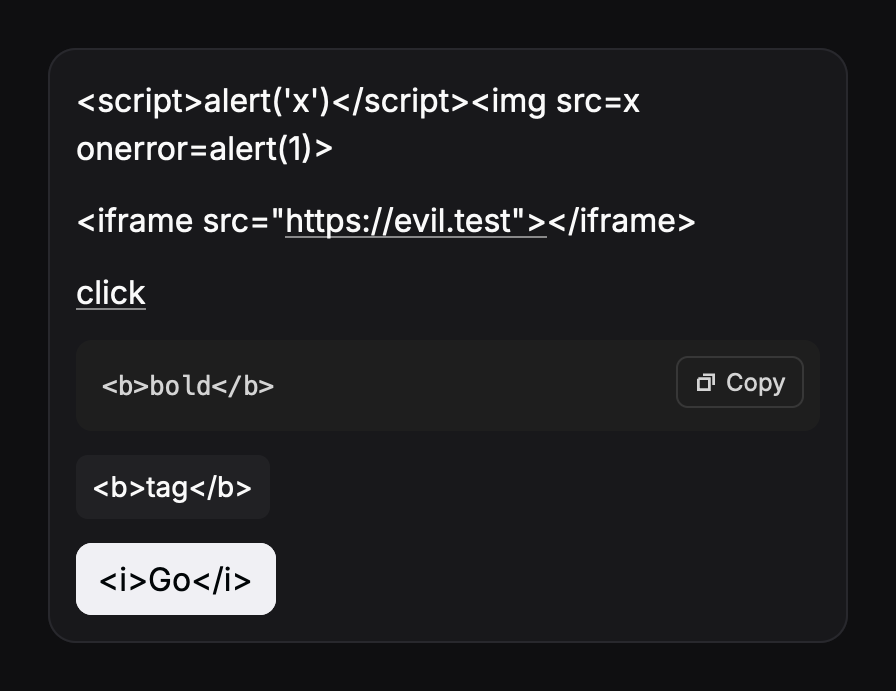
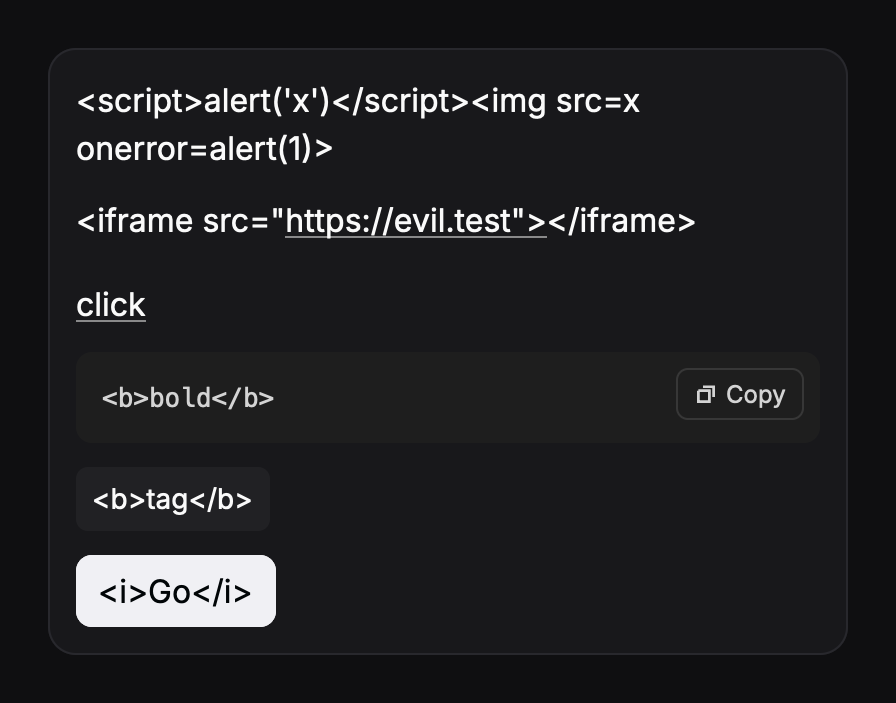
fix(chatwidgets): match the web's Markdown and colour the date picker (#113)
Markdown takes OpenUI's web renderer's values (markDownRenderer.css over
Tailwind's reset, measured in Chromium): 18px between paragraphs, every
heading semibold at 16px and 1.25 tall with nothing above it and 8px
below, list markers outside a 20px padding a space before their text
with items 8px apart, inline code in the body's own font on sunk with
the web's box, and tables with 14px corners and no header fill.

The date picker (one date or a range) takes the card's colours instead
of gpui-core's global Theme: its field as the text fields', its month on
the card's popover, the picked day on the accent, the range at the
web's 4% highlight. The slider and the text fields take the card's
focus ring and tooltips its body font. A new colours test draws a light
card's date picker under a dark gpui-core Theme.

content, form and hostile in docs/ are re-rendered.

diff --git a/gpui-chatwidgets/src/draw/content.rs b/gpui-chatwidgets/src/draw/content.rs
@@ -189,15 +189,15 @@ impl Draw<'_, '_> {
             .into_any_element()
     }
 
-    /// Markdown as text, selectable, through gpui-core's text view, laid out as the web lays
-    /// it out. It loads nothing: HTML reads as the text it is, an image as its alt text, and a
-    /// link goes to the host as an event. The text takes the card's colour from around it, and
-    /// everything else (links, markers, lines, code, the selection) the card's theme.
+    /// Markdown as text, selectable, through gpui-core's text view, laid out as OpenUI's web
+    /// renderer lays it out (its `markDownRenderer.css` over Tailwind's reset, measured in
+    /// Chromium). It loads nothing: HTML reads as the text it is, an image as its alt text,
+    /// and a link goes to the host as an event. The text takes the card's colour from around
+    /// it, and everything else (links, markers, lines, code, the selection) the card's theme.
     pub fn markdown(&mut self, md: &str, size: f32, weight: f32, path: &str) -> Div {
         let t = self.t;
         let rem = self.window.rem_size();
         let css = |v: f32| t.px(v).to_pixels(rem);
-        let heading = t.text.md;
         let mut code = StyleRefinement::default()
             .bg(t.colors.sunk)
             .border_1()
@@ -211,30 +211,38 @@ impl Draw<'_, '_> {
             line_height: Some(self.px(t.text.code * 1.6).into()),
             ..Default::default()
         };
-        // A heading's line is the body's leading at its size, where the web's is 1.35: the
-        // gaps around it give back the difference, so the text sits where the web's does.
-        let leading = heading * (t.text.body_leading - 1.35) / 2.;
+        // The web's margins are pixels, whatever the text's size (TextContent's small and
+        // large change only the body's font).
         let style = TextViewStyle {
-            paragraph_gap: self.px(size * 0.75),
-            heading_base_font_size: Some(css(heading)),
+            // 18px between paragraphs (`p:has(+p)`).
+            paragraph_gap: self.px(18.),
+            // Every level is the web's heading-xs: semibold at the body's medium size, 1.25 tall.
+            heading_base_font_size: Some(css(t.text.md)),
             heading_font_size: Some(Arc::new(|_, base| base)),
+            heading_line_height: Some(1.25),
+            // Nothing above a heading (Tailwind's reset, and OpenUI sets no top margin), and 8px
+            // to the paragraph under it (`h1:has(+p)`).
+            heading_margin_top: Some(px(0.)),
+            heading_margin_bottom: Some(css(8.)),
             code_block: code,
-            // Bullets and numbers in a 1.4em column, items 0.25em apart.
-            list_indent: Some(css(size * 1.4)),
-            list_item_gap: Some(css(size * 0.25)),
-            // A heading starts a section (1.4 of its size above it) and leads into what
-            // follows it (0.35 below).
-            heading_margin_top: Some(css(heading * 1.4 - leading)),
-            heading_margin_bottom: Some(css(heading * 0.35 - leading)),
-            // `code`: the card's mono type at 0.875em, in a rounded box 4px either side.
+            // Bullets and numbers outside a 20px padding, items 8px apart, and each marker a
+            // space (the marker's "• " in Inter, 0.27em) before its text.
+            list_indent: Some(css(20.)),
+            list_item_gap: Some(css(8.)),
+            list_marker_gap: Some(css(size * 0.27)),
+            // A table's container has the web's radius-2xl corners and no header fill.
+            table_radius: Some(css(t.radii.xl)),
+            // `code`: the body's own font at its size (`font: var(--openui-text-body-default)`),
+            // on sunk in a 4px-cornered box, 4px either side and 2px above and below the font's
+            // ascent and descent, with a 1px border the fill here takes in.
             inline_code: InlineCodeStyle {
-                family: Some(t.fonts.mono.clone()),
-                size: Some(0.875),
-                padding: Some(css(4.)),
+                family: Some(t.fonts.body.clone()),
+                size: Some(1.),
+                padding: Some(css(5.)),
+                padding_y: Some(css(3.)),
                 radius: Some(css(4.)),
                 background: Some(t.colors.sunk),
                 color: None,
-                ..Default::default()
             },
             colors: TextViewColors {
                 link: Some(t.colors.text),
@@ -242,9 +250,9 @@ impl Draw<'_, '_> {
                 rule: Some(t.colors.line),
                 quote_bar: Some(t.colors.line),
                 table_line: Some(t.colors.line),
+                table_header: None,
                 selection: Some(t.colors.accent.opacity(0.3)),
                 muted: Some(t.colors.text_muted),
-                ..Default::default()
             },
             ..Default::default()
         };

diff --git a/gpui-chatwidgets/tests/colors.rs b/gpui-chatwidgets/tests/colors.rs
@@ -1,4 +1,4 @@
-//! A light card in a dark app: gpui-core's text field and slider, which the card embeds, take
+//! A light card in a dark app: gpui-core's text field, slider and date picker, which the card embeds, take
 //! the card's colours, not the app's global gpui-core `Theme`. Read from the scene the window
 //! drew, with Core Text laying the text out (so the placeholder has glyphs to read).
 
@@ -181,4 +181,93 @@ fn a_light_card_s_slider_takes_the_card_s_colours_in_a_dark_app() {
         "no track in the dark theme's input colour"
     );
     assert!(!bar(global.primary), "no fill in the dark theme's primary");
+}
+
+const DATES: &str = r#"root = Form("f", Buttons([]), [FormControl("Day", DatePicker("day", "single", null, $d)), FormControl("Stay", DatePicker("stay", "range", null, $r))])
+$d = "2026-03-04"
+$r = {from: "2026-01-10", to: "2026-01-14"}"#;
+
+#[test]
+fn a_light_card_s_date_picker_takes_the_card_s_colours_in_a_dark_app() {
+    let mut cx = app_with_text();
+    cx.update(|cx| gpui_core::Theme::set(gpui_core::Theme::dark(), cx));
+    let host = light_host();
+    let (_, vcx) = open(&mut cx, DATES, &host, Some(400.));
+    let card = host.theme.colors.clone();
+    let global = gpui_core::Theme::dark();
+
+    // The fields: 36 CSS pixels tall (gpui-core's fifteenths of a rem), edged in the card's
+    // strong line and unfilled on a light card, as its text fields are.
+    let drawn = scene(vcx);
+    let field = |pick: &dyn Fn(Hsla, Hsla) -> bool| {
+        drawn.quads.iter().any(|(fill, size, edge)| {
+            pick(*fill, *edge) && (f32::from(size.height) - 36. * 16. / 15.).abs() < 0.5
+        })
+    };
+    assert!(
+        field(&|_, edge| near(edge, card.line_strong)),
+        "a date field edged in the card's strong line"
+    );
+    assert!(
+        !field(&|_, edge| near(edge, global.input)),
+        "no field edged in the dark theme's input colour"
+    );
+    assert!(
+        !field(&|fill, _| near(fill, global.input.opacity(0.3))),
+        "no field filled as the dark theme's"
+    );
+
+    // The single date's month: on the card's popover, the stored day on the accent.
+    let at = vcx
+        .debug_bounds("field:t:r/f0.date")
+        .expect("the date field")
+        .center();
+    vcx.simulate_click(at, Modifiers::none());
+    let drawn = scene(vcx);
+    let filled = |c: Hsla| drawn.quads.iter().any(|(fill, ..)| near(*fill, c));
+    assert!(
+        vcx.debug_bounds("day-2026-03-04").is_some(),
+        "the month is open"
+    );
+    assert!(filled(card.popover), "the month on the card's popover");
+    assert!(
+        !filled(global.popover),
+        "no month on the dark theme's popover"
+    );
+    assert!(filled(card.accent), "the picked day on the card's accent");
+    assert!(
+        !filled(global.primary),
+        "no day on the dark theme's primary"
+    );
+    assert!(
+        drawn.glyphs.iter().any(|c| near(*c, card.on_accent)),
+        "the picked day's number in the card's on-accent colour"
+    );
+    vcx.simulate_keystrokes("escape");
+
+    // The range's month: the days between its ends at the accent's low strength.
+    let at = vcx
+        .debug_bounds("field:t:r/f1.date")
+        .expect("the range field")
+        .center();
+    vcx.simulate_click(at, Modifiers::none());
+    let drawn = scene(vcx);
+    assert!(
+        vcx.debug_bounds("day-2026-01-12").is_some(),
+        "the range's month is open"
+    );
+    assert!(
+        drawn
+            .quads
+            .iter()
+            .any(|(fill, ..)| near(*fill, card.accent.opacity(0.04))),
+        "the days between in the card's accent at 4%"
+    );
+    assert!(
+        !drawn
+            .quads
+            .iter()
+            .any(|(fill, ..)| near(*fill, global.accent)),
+        "no days between in the dark theme's accent"
+    );
 }

diff --git a/gpui-chatwidgets/src/draw/form.rs b/gpui-chatwidgets/src/draw/form.rs
@@ -7,7 +7,10 @@ use std::rc::Rc;
 
 use gpui::prelude::FluentBuilder as _;
 use gpui::*;
-use gpui_core::{DatePicker, Disableable as _, InputState, Selectable as _, Slider, Tooltip};
+use gpui_core::{
+    DatePicker, DatePickerColors, Disableable as _, InputState, PopoverColors, Selectable as _,
+    Slider, Tooltip,
+};
 use serde_json::{Value as Json, json};
 
 use super::content::Glyph;
@@ -192,6 +195,7 @@ impl Draw<'_, '_> {
                     )
                     .child(
                         DatePicker::new(&e.state)
+                            .colors(date_colors(t))
                             .placeholder("Pick a date")
                             .w_full(),
                     )
@@ -239,6 +243,7 @@ impl Draw<'_, '_> {
                         let sel = self.selector(&format!("slider:{key}"));
                         div().w_full().min_w_0().debug_selector(move || sel).child(
                             Slider::new(&e.state)
+                                .focus_ring_color(t.colors.focus_ring)
                                 .track_color(t.colors.line_strong)
                                 .fill_color(t.colors.accent)
                                 .thumb_color(t.colors.background)
@@ -720,6 +725,7 @@ impl Draw<'_, '_> {
             .caret_color(t.colors.text)
             .selection_color(selection(t))
             .placeholder_color(t.colors.text_muted)
+            .focus_ring_color(t.colors.focus_ring)
     }
 
     pub fn dropdown(
@@ -1011,6 +1017,7 @@ impl Draw<'_, '_> {
         // long press on touch (GPUI shows an element's tooltip for one).
         let name = b.name.clone();
         let (bg, text, border) = (t.colors.popover, t.colors.text, t.colors.line_strong);
+        let font = t.fonts.body.clone();
         div()
             .id(self.id(&format!("{path}.tip")))
             .flex_none()
@@ -1019,10 +1026,44 @@ impl Draw<'_, '_> {
                     .background(bg)
                     .text_color(text)
                     .border_color(border)
+                    .font_family(font.clone())
                     .build(window, cx)
             })
             .child(press)
             .into_any_element()
+    }
+}
+
+/// The date picker's colours, from the card rather than gpui-core's global theme: its field as
+/// the card's text fields (the same edge, fill, text, placeholder and focus ring), its month on
+/// the card's popover with a `line_strong` edge as the web's (`border-interactive`), a picked day
+/// on the accent (the web's `interactive-accent-default` and `text-accent-primary`), the days
+/// between a range's ends at the web's `--openui-highlight` strength (4%) and a day under the
+/// pointer at its `highlight-subtle`.
+pub(crate) fn date_colors(t: &crate::theme::CardTheme) -> DatePickerColors {
+    let c = &t.colors;
+    DatePickerColors {
+        field: Some(if t.dark {
+            c.sunk
+        } else {
+            gpui::transparent_black()
+        }),
+        border: Some(c.line_strong),
+        text: Some(c.text),
+        placeholder: Some(c.text_muted),
+        focus_ring: Some(c.focus_ring),
+        popover: Some(PopoverColors {
+            background: c.popover,
+            foreground: c.text,
+            border: c.line_strong,
+        }),
+        selected: Some(c.accent),
+        selected_text: Some(c.on_accent),
+        range: Some(c.accent.opacity(0.04)),
+        hover: Some(c.highlight),
+        today: Some(c.accent),
+        muted: Some(c.text_muted),
+        cursor: Some(c.focus_ring),
     }
 }
 

diff --git a/gpui-chatwidgets/src/theme.rs b/gpui-chatwidgets/src/theme.rs
@@ -31,8 +31,8 @@ pub struct CardColors {
     pub line: Hsla,
     /// The edge of something that can be pressed or typed in.
     pub line_strong: Hsla,
-    /// The ring around a button, tab or chip focused from the keyboard, drawn as given (the
-    /// web's `ring-3 ring-ring/50`: the ring colour at half strength).
+    /// The ring around a button, tab, chip, the slider or a field focused from the keyboard,
+    /// drawn as given (the web's `ring-3 ring-ring/50`: the ring colour at half strength).
     pub focus_ring: Hsla,
     /// A recessed area: a sunk card, the tab strip, a list's number box.
     pub sunk: Hsla,

diff --git a/gpui-chatwidgets/README.md b/gpui-chatwidgets/README.md
@@ -33,9 +33,8 @@ Tag, Icon, EntityList, ListBlock, the five card blocks, Text and BoldText, IconT
 ImageTextLarge, and the metric indicators. A component the model doesn't know draws nothing.
 
 Text fields and text areas are gpui-core's `Input` (in this workspace), with the platform's
-input methods (on iOS, a tap raises the keyboard); the slider and an icon button's tooltip are
-gpui-core's too, all drawn in the card's colours, and so is the date picker (one date or a range),
-drawn in gpui-core's theme. Everything else is drawn with GPUI's own elements, everything pressable through gpui-core's `Press` so the
+input methods (on iOS, a tap raises the keyboard); the slider, an icon button's tooltip and the
+date picker (one date or a range) are gpui-core's too, all drawn in the card's colours. Everything else is drawn with GPUI's own elements, everything pressable through gpui-core's `Press` so the
 keyboard reaches it (Tab to move, Enter or Space to press) and shows a focus ring there.
 Markdown goes through gpui-core's text view, so it can be selected and copied; a code block has
 a Copy button.
@@ -61,8 +60,8 @@ Pin a commit: until it's on crates.io, any commit can change the API. The crate 
 exactly (`gpui-pre` 0.3.12), so your app must use the same, or two GPUIs would be linked.
 
 The crate drew with GPUI Kit until its date picker moved to gpui-core. An app built on GPUI Kit
-0.9.1 links the same GPUI and hosts cards as before; only the date picker's colours now come
-from gpui-core's `Theme` (see [Theme](#theme)).
+0.9.1 links the same GPUI and hosts cards as before; the date picker takes the card's colours,
+and only its sizes and corners come from gpui-core's `Theme` (see [Theme](#theme)).
 
 The parser turns on `serde_json`'s `preserve_order` feature, so a program's properties keep
 the order they were written in. Cargo unifies features across a build, so every crate in your
@@ -146,7 +145,7 @@ fn main() {
     // An app that serves gpui-core's Lucide icons draws the cards' icons and the date picker's.
     gpui_platform::application().with_assets(gpui_core::Icons).run(|cx| {
         gpui_core::init(cx);
-        // The date picker's colours, and the window's rem: the same light or dark as the cards.
+        // The window's rem (the cards draw in their own colours, whatever the theme's).
         Theme::set(Theme { font_size: px(16.), ..Theme::dark() }, cx);
         gpui_core::open_window(WindowOptions::default(), cx, |window, cx| {
             let host: Rc<dyn CardHost> = Rc::new(Host);
@@ -172,8 +171,9 @@ series), the font families, text sizes, corner radii and spacing. `CardTheme::da
 pixels and are drawn as `rems(size / rem_base)`, so a host that zooms by changing the window's
 rem zooms its cards too. `frame` draws the card in a rounded, bordered box, as a chat bubble.
 
-The text fields, the slider and tooltips are gpui-core's, drawn in the card's colours, so a
-light card in a dark app (or the other way round) needs no change to gpui-core's global `Theme`:
+The text fields, the slider, tooltips and the date picker are gpui-core's, drawn in the card's
+colours, so a light card in a dark app (or the other way round) needs no change to gpui-core's
+global `Theme`:
 
 | | From `CardTheme.colors` |
 |---|---|
@@ -184,34 +184,43 @@ light card in a dark app (or the other way round) needs no change to gpui-core's
 | Its placeholder | `text_muted` |
 | Its focus ring | `focus_ring`, also the ring around a button, tab, chip or choice focused from the keyboard |
 | The slider's track, fill and thumb | `line_strong`, `accent`, `background` with an `accent` edge |
-| An icon button's tooltip | `popover`, with `text` and a `line_strong` edge |
+| The slider's keyboard focus ring | `focus_ring` |
+| An icon button's tooltip | `popover`, with `text`, a `line_strong` edge and the `body` font |
+| A date field's edge, fill, text and focus ring | as a text field's: `line_strong`, `sunk` on a dark card (none on a light one), `text`, `focus_ring` (also its edge while focused from the keyboard) |
+| Its placeholder and calendar icon | `text_muted` |
+| Its month | `popover`, with `text` and a `line_strong` edge |
+| A picked day, a range's ends | `accent` with `on_accent` |
+| The days between a range's ends | `accent` at 4% (the web's `--openui-highlight`) |
+| A day under the pointer, today, the keyboard's day | `highlight`, `accent`, a `focus_ring` edge |
+| Days outside the month, the weekdays | `text_muted` |
 | Markdown's text and links | `text` |
 | Its list markers and an image's alt text | `text_muted` |
 | Its rules, quote bars and table lines | `line` |
 | Its selection | `accent` at 30% |
-| Its inline code | `sunk` behind the `mono` font |
+| Its inline code | `sunk` behind the `body` font, as the web's |
 | A code block | `sunk`, with a `line` edge and the `mono` font |
 
 gpui-core sets itself up when its first Root, text field or date picker is made, so a host
-needn't call `gpui_core::init`. Its `Theme` still gives the slider's keyboard focus ring, a
-tooltip's font and the date picker's colours; it's dark until a host sets it. The date picker
-takes no colours of its own, so set gpui-core's `Theme` to the same light or dark as the cards:
-
-| | From gpui-core's `Theme` |
-|---|---|
-| The date field's edge and fill | `input` (its fill at 30% on a dark theme), `ring` while it has the focus |
-| Its placeholder and calendar icon | `muted_foreground` |
-| The month | `popover` and `popover_foreground`, with a `border` edge |
-| A picked day, the days between a range's ends | `primary` with `primary_foreground`, `accent` |
+needn't call `gpui_core::init`. Its `Theme` (dark until a host sets it) no longer colours
+anything in a card; it still gives the date picker its text size and corners.
 
 A date field stores "YYYY-MM-DD", and a range `{"from": …, "to": …}` (`to` is null until the
 second day is picked). The picker shows what's stored when it's made and after a press resets
 the field. From the keyboard, Tab reaches it, Enter or Space opens the month, the arrows move
 a day or a week, Page Up and Page Down a month, Enter or Space picks and Escape closes.
 
-Markdown is laid out as the web lays it out: bullets and numbers in a 1.4em column, items 0.25em
-apart, 1.4em above a heading and 0.35em below it, and inline code at 0.875em in a box 4px either
-side with 4px corners.
+Markdown is laid out as OpenUI's web renderer lays it out (`markDownRenderer.css` over
+Tailwind's reset, measured in Chromium), in CSS pixels whatever the text's size:
+
+| | The web's | Here |
+|---|---|---|
+| Paragraphs | 18px apart (`p:has(+p)`) | the same between any two blocks but headings |
+| Headings, every level | heading-xs: 600 16px/1.25 | semibold at `text.md`, 1.25 tall |
+| Above a heading | nothing (the reset's margin, which OpenUI keeps) | nothing |
+| Below a heading | 8px before a paragraph, 18px before anything else | 8px |
+| Lists | markers outside a 20px padding, a space (0.27em) before the text, items 8px apart | the same |
+| Inline code | the body's font and size on `sunk`, padding 2px 4px, a 1px border, 4px corners | the body's font, the fill to the border's outer edge (5px either side, 3px past the font's ascent and descent), 4px corners |
+| A table | radius-2xl (14px) corners, a 1px line, no header fill | `radii.xl` corners, a `line` edge, no header fill |
 
 ### Hooks and events
 
